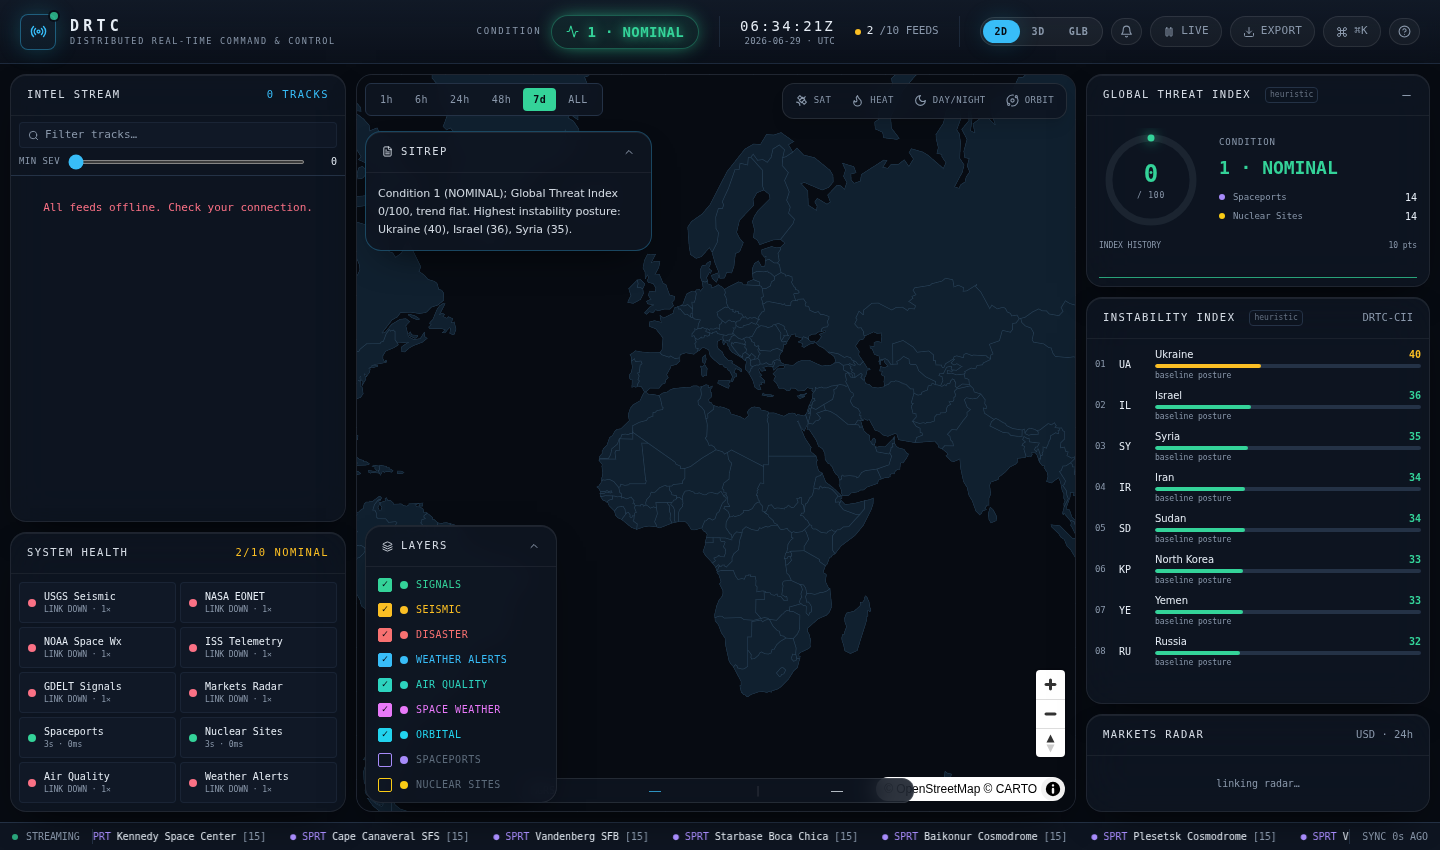
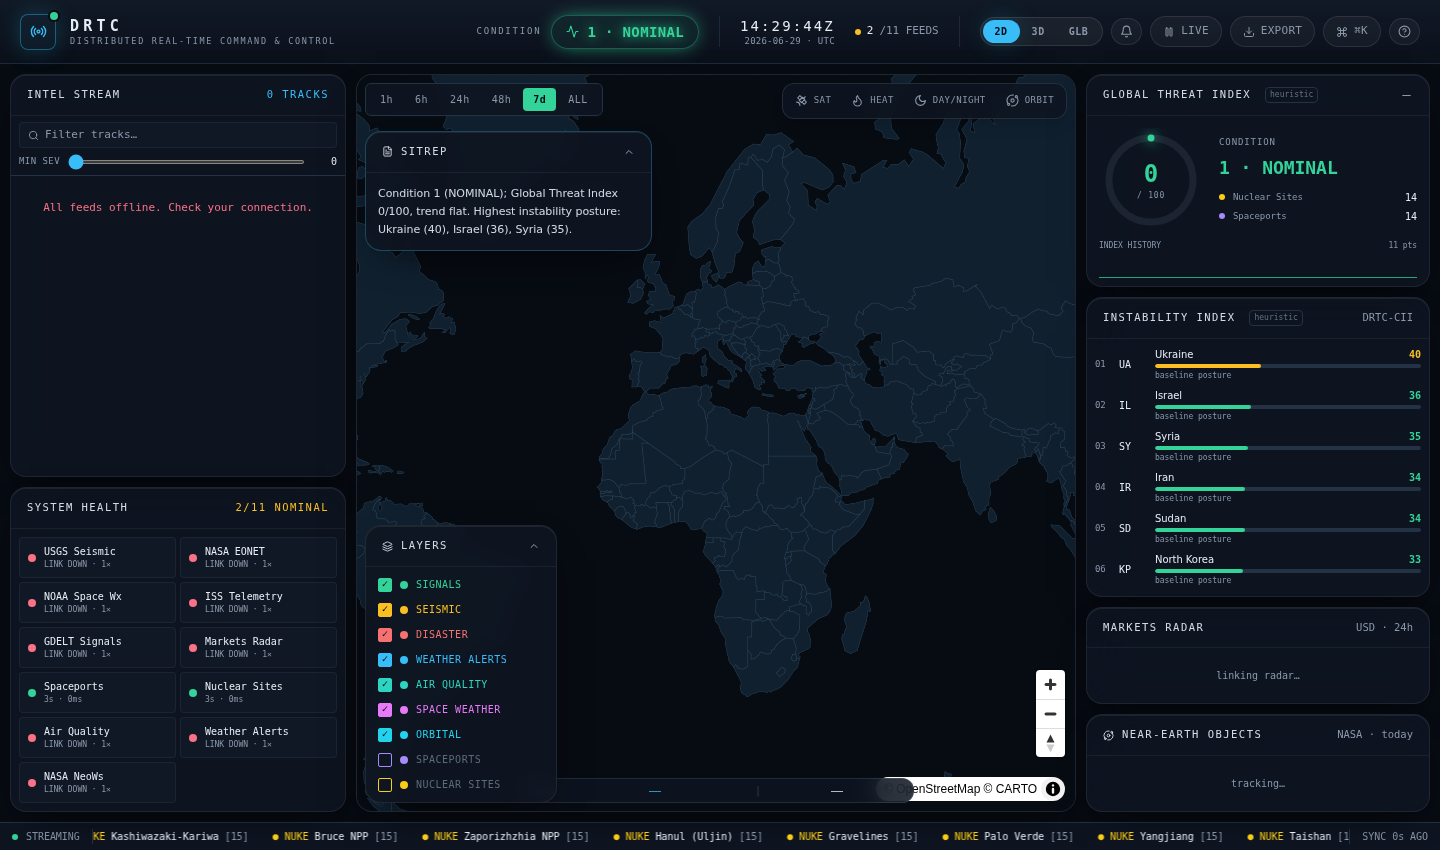
Add NASA Near-Earth Objects (NeoWs) panel
- New NeoWs service with a pure, tested parser (averages diameter, ranks
  potentially-hazardous asteroids first, normalizes miss distance)
- Near-Earth Objects panel in the right column: name, size, speed, miss
  distance in lunar distances, hazardous flag, and a PHA count
- Uses NASA's shared DEMO_KEY by default; optional VITE_NASA_KEY for higher
  limits (documented in README)
- Wired into sources/System Health (now 11 feeds); 33 tests passing

Verified: typecheck, lint, 33 tests, build.

Claude-Session: https://claude.ai/code/session_014cXPwLmXUsC7GzjtSfr6jK

diff --git a/src/services/neo.ts b/src/services/neo.ts
@@ -1,0 +1,60 @@
+// Near-Earth Objects via NASA NeoWs (free; uses the shared DEMO_KEY unless a
+// VITE_NASA_KEY is provided). api.nasa.gov is CORS enabled.
+import { getJSON } from './http'
+import type { Neo } from '../types'
+
+const KEY = import.meta.env.VITE_NASA_KEY || 'DEMO_KEY'
+
+interface NeoRaw {
+  id: string
+  name: string
+  is_potentially_hazardous_asteroid?: boolean
+  estimated_diameter?: {
+    meters?: { estimated_diameter_min?: number; estimated_diameter_max?: number }
+  }
+  close_approach_data?: {
+    close_approach_date_full?: string
+    relative_velocity?: { kilometers_per_hour?: string }
+    miss_distance?: { kilometers?: string; lunar?: string }
+  }[]
+}
+interface FeedResponse {
+  near_earth_objects?: Record<string, NeoRaw[]>
+}
+
+// Pure parser, exported for testing.
+export function parseNeos(data: FeedResponse): Neo[] {
+  const groups = data?.near_earth_objects ?? {}
+  const all = Object.values(groups).flat()
+  return all
+    .map<Neo>((n) => {
+      const ca = n.close_approach_data?.[0]
+      const dmin = n.estimated_diameter?.meters?.estimated_diameter_min ?? 0
+      const dmax = n.estimated_diameter?.meters?.estimated_diameter_max ?? 0
+      return {
+        id: n.id,
+        name: (n.name ?? n.id).replace(/[()]/g, '').trim(),
+        diameterM: Math.round((dmin + dmax) / 2),
+        hazardous: !!n.is_potentially_hazardous_asteroid,
+        missKm: ca?.miss_distance?.kilometers ? Math.round(Number(ca.miss_distance.kilometers)) : 0,
+        missLunar: ca?.miss_distance?.lunar ? Number(Number(ca.miss_distance.lunar).toFixed(1)) : 0,
+        velocityKmh: ca?.relative_velocity?.kilometers_per_hour
+          ? Math.round(Number(ca.relative_velocity.kilometers_per_hour))
+          : 0,
+        approach: ca?.close_approach_date_full ?? '',
+      }
+    })
+    .filter((n) => n.missKm > 0)
+    .sort((a, b) => Number(b.hazardous) - Number(a.hazardous) || a.missKm - b.missKm)
+}
+
+function today(): string {
+  return new Date().toISOString().slice(0, 10)
+}
+
+export async function fetchNeos(): Promise<{ neos: Neo[]; latencyMs: number }> {
+  const d = today()
+  const url = `https://api.nasa.gov/neo/rest/v1/feed?start_date=${d}&end_date=${d}&api_key=${KEY}`
+  const { data, latencyMs } = await getJSON<FeedResponse>(url)
+  return { neos: parseNeos(data), latencyMs }
+}

diff --git a/src/components/NeoPanel.tsx b/src/components/NeoPanel.tsx
@@ -1,0 +1,53 @@
+import { Orbit } from 'lucide-react'
+import { useStore } from '../store'
+
+// Compact distance: lunar distances (LD) is the intuitive unit for close passes.
+function dist(n: { missLunar: number; missKm: number }): string {
+  if (n.missLunar && n.missLunar < 100) return `${n.missLunar} LD`
+  return `${(n.missKm / 1_000_000).toFixed(1)}M km`
+}
+
+export default function NeoPanel() {
+  const neos = useStore((s) => s.neos)
+  const top = neos.slice(0, 6)
+  const hazards = neos.filter((n) => n.hazardous).length
+
+  return (
+    <div className="panel shrink-0">
+      <div className="panel-header">
+        <span className="flex items-center gap-1.5">
+          <Orbit size={11} /> Near-Earth Objects
+        </span>
+        <span className="text-cmd-dim normal-case tracking-normal">
+          NASA · {hazards ? `${hazards} PHA` : 'today'}
+        </span>
+      </div>
+      <div className="p-2 space-y-1">
+        {top.length === 0 && (
+          <div className="text-center text-cmd-dim font-mono text-[10px] py-3">tracking…</div>
+        )}
+        {top.map((n) => (
+          <div
+            key={n.id}
+            className="flex items-center gap-2 px-2 py-1.5 rounded-lg bg-white/[0.03] border border-white/5"
+          >
+            <span
+              className={`w-1.5 h-1.5 rounded-full shrink-0 ${n.hazardous ? 'bg-cmd-red' : 'bg-[#c4b5fd]'}`}
+              title={n.hazardous ? 'Potentially hazardous' : 'Not hazardous'}
+            />
+            <div className="min-w-0 flex-1">
+              <div className="text-[11px] text-cmd-text truncate">{n.name}</div>
+              <div className="font-mono text-[8px] text-cmd-dim">
+                ~{n.diameterM} m · {Math.round(n.velocityKmh / 1000)}k km/h
+              </div>
+            </div>
+            <div className="text-right shrink-0">
+              <div className="font-mono text-[10px] text-cmd-text">{dist(n)}</div>
+              <div className="font-mono text-[8px] text-cmd-dim">miss</div>
+            </div>
+          </div>
+        ))}
+      </div>
+    </div>
+  )
+}

diff --git a/src/services/parsers.test.ts b/src/services/parsers.test.ts
@@ -3,6 +3,7 @@ import { parseSeismic } from './seismic'
 import { parseWeather } from './weather'
 import { parseAirQuality } from './airquality'
 import { parseSignals } from './signals'
+import { parseNeos } from './neo'
 
 describe('parseSeismic', () => {
   it('maps a USGS feature to an event with scaled severity', () => {
@@ -117,5 +118,56 @@ describe('parseSignals', () => {
 
   it('survives a shapeless payload', () => {
     expect(parseSignals({})).toEqual([])
+  })
+})
+
+describe('parseNeos', () => {
+  const raw = {
+    near_earth_objects: {
+      '2026-06-29': [
+        {
+          id: '1',
+          name: '(2026 AB) Safe',
+          is_potentially_hazardous_asteroid: false,
+          estimated_diameter: {
+            meters: { estimated_diameter_min: 100, estimated_diameter_max: 300 },
+          },
+          close_approach_data: [
+            {
+              close_approach_date_full: '2026-Jun-29 12:00',
+              relative_velocity: { kilometers_per_hour: '40000' },
+              miss_distance: { kilometers: '5000000', lunar: '13' },
+            },
+          ],
+        },
+        {
+          id: '2',
+          name: '(2026 XY) Hazard',
+          is_potentially_hazardous_asteroid: true,
+          estimated_diameter: {
+            meters: { estimated_diameter_min: 400, estimated_diameter_max: 600 },
+          },
+          close_approach_data: [
+            {
+              close_approach_date_full: '2026-Jun-29 06:00',
+              relative_velocity: { kilometers_per_hour: '90000' },
+              miss_distance: { kilometers: '8000000', lunar: '20' },
+            },
+          ],
+        },
+      ],
+    },
+  }
+
+  it('parses, averages diameter, and ranks hazardous first', () => {
+    const out = parseNeos(raw)
+    expect(out).toHaveLength(2)
+    expect(out[0].name).toBe('2026 XY Hazard') // hazardous sorts first
+    expect(out[0]).toMatchObject({ hazardous: true, diameterM: 500, missLunar: 20 })
+    expect(out[1].diameterM).toBe(200)
+  })
+
+  it('survives a shapeless payload', () => {
+    expect(parseNeos({})).toEqual([])
   })
 })

diff --git a/src/store.ts b/src/store.ts
@@ -6,6 +6,7 @@ import type {
   FeedSource,
   IntelEvent,
   MarketTick,
+  Neo,
   ThreatState,
   TimeRangeKey,
   ViewMode,
@@ -25,6 +26,7 @@ export const CATEGORY_META: Record<EventCategory, { label: string; color: string
     nuclear: { label: 'Nuclear Sites', color: '#facc15', short: 'NUKE' },
     air: { label: 'Air Quality', color: '#2dd4bf', short: 'AIR' },
     weather: { label: 'Weather Alerts', color: '#38bdf8', short: 'WX' },
+    neo: { label: 'Near-Earth Objects', color: '#c4b5fd', short: 'NEO' },
   }
 
 // Persistent reference layers — exempt from the time filter and the intel feed.
@@ -69,6 +71,7 @@ function savePrefs(p: Prefs) {
 interface DRTCState {
   events: IntelEvent[]
   markets: MarketTick[]
+  neos: Neo[]
   sources: Record<string, FeedSource>
   countryRisk: CountryRisk[]
   threat: ThreatState
@@ -93,6 +96,7 @@ interface DRTCState {
   setSourceStatus: (id: string, patch: Partial<FeedSource>) => void
   ingest: (sourceId: string, events: IntelEvent[]) => void
   setMarkets: (ticks: MarketTick[]) => void
+  setNeos: (neos: Neo[]) => void
   recompute: () => void
   select: (id: string | null) => void
   toggleCategory: (cat: EventCategory) => void
@@ -228,6 +232,18 @@ const INITIAL_SOURCES: FeedSource[] = [
     consecutiveFailures: 0,
     syncs: 0,
   },
+  {
+    id: 'neo',
+    label: 'NASA NeoWs',
+    category: 'neo',
+    status: 'pending',
+    lastSync: null,
+    count: 0,
+    latencyMs: null,
+    latencyHistory: [],
+    consecutiveFailures: 0,
+    syncs: 0,
+  },
 ]
 
 const prefs = loadPrefs()
@@ -244,6 +260,7 @@ const DEFAULT_CATS: EventCategory[] = [
 export const useStore = create<DRTCState>((set) => ({
   events: [],
   markets: [],
+  neos: [],
   sources: Object.fromEntries(INITIAL_SOURCES.map((s) => [s.id, s])),
   countryRisk: [],
   threat: { level: 1, label: 'NOMINAL', index: 0, trend: 'flat' },
@@ -301,6 +318,7 @@ export const useStore = create<DRTCState>((set) => ({
     }),
 
   setMarkets: (ticks) => set({ markets: ticks }),
+  setNeos: (neos) => set({ neos }),
 
   recompute: () =>
     set((s) => {

diff --git a/src/types.ts b/src/types.ts
@@ -12,6 +12,7 @@ export type EventCategory =
   | 'nuclear'
   | 'air'
   | 'weather'
+  | 'neo'
 
 export type ViewMode = '2d' | '3d' | 'globe'
 
@@ -59,6 +60,18 @@ export interface MarketTick {
   name: string
   price: number
   changePct: number
+}
+
+/** Near-Earth Object (asteroid) close approach, from NASA NeoWs. */
+export interface Neo {
+  id: string
+  name: string
+  diameterM: number
+  hazardous: boolean
+  missKm: number
+  missLunar: number
+  velocityKmh: number
+  approach: string
 }
 
 export interface CountryRisk {

diff --git a/src/hooks/useFeeds.ts b/src/hooks/useFeeds.ts
@@ -9,6 +9,7 @@ import { fetchMarkets } from '../services/markets'
 import { fetchNuclear, fetchSpaceports } from '../services/static'
 import { fetchAirQuality } from '../services/airquality'
 import { fetchWeather } from '../services/weather'
+import { fetchNeos } from '../services/neo'
 import type { IntelEvent } from '../types'
 
 interface FeedSpec {
@@ -35,6 +36,15 @@ const FEEDS: FeedSpec[] = [
   { id: 'signals', intervalMs: 180_000, run: fetchSignals },
   { id: 'air', intervalMs: 600_000, run: fetchAirQuality },
   { id: 'disaster', intervalMs: 300_000, run: fetchDisasters },
+  {
+    id: 'neo',
+    intervalMs: 3_600_000,
+    run: async () => {
+      const { neos, latencyMs } = await fetchNeos()
+      useStore.getState().setNeos(neos)
+      return { latencyMs }
+    },
+  },
   // Static reference layers — load once, refresh rarely.
   { id: 'spaceport', intervalMs: 3_600_000, run: fetchSpaceports },
   { id: 'nuclear', intervalMs: 3_600_000, run: fetchNuclear },

diff --git a/src/vite-env.d.ts b/src/vite-env.d.ts
@@ -1,1 +1,9 @@
 /// <reference types="vite/client" />
+
+interface ImportMetaEnv {
+  /** Optional NASA api.nasa.gov key; falls back to the shared DEMO_KEY. */
+  readonly VITE_NASA_KEY?: string
+}
+interface ImportMeta {
+  readonly env: ImportMetaEnv
+}

diff --git a/src/App.tsx b/src/App.tsx
@@ -7,6 +7,7 @@ import IntelFeed from './components/IntelFeed'
 import ThreatPanel from './components/ThreatPanel'
 import InstabilityPanel from './components/InstabilityPanel'
 import MarketTicker from './components/MarketTicker'
+import NeoPanel from './components/NeoPanel'
 import SourceStatus from './components/SourceStatus'
 import StatusBar from './components/StatusBar'
 import CommandPalette from './components/CommandPalette'
@@ -105,6 +106,9 @@ export default function App() {
           </ErrorBoundary>
           <ErrorBoundary label="MARKETS">
             <MarketTicker />
+          </ErrorBoundary>
+          <ErrorBoundary label="NEO">
+            <NeoPanel />
           </ErrorBoundary>
         </div>
       </main>

diff --git a/README.md b/README.md
@@ -80,6 +80,7 @@ Everything here is free and needs no key.
 | Space weather | NOAA SWPC |
 | ISS position | wheretheiss.at |
 | Signals | GDELT |
+| Near-Earth objects | NASA NeoWs |
 | Markets | CoinGecko |
 | Basemap | CARTO dark tiles (OpenStreetMap data) |
 | Satellite | Esri World Imagery |
@@ -99,8 +100,10 @@ That starts the dev server (usually on http://localhost:5173). Build a
 production bundle with `npm run build` and serve it with `npm run preview`.
 
 The app fetches all of its data straight from the public APIs in the browser, so
-it needs an internet connection at runtime. There is no `.env` and nothing to
-configure.
+it needs an internet connection at runtime. There is nothing required to
+configure. The only optional setting is `VITE_NASA_KEY`: the NASA feed uses the
+shared `DEMO_KEY` by default, and you can drop in your own free key from
+api.nasa.gov for higher rate limits.
 
 ## Stack
 